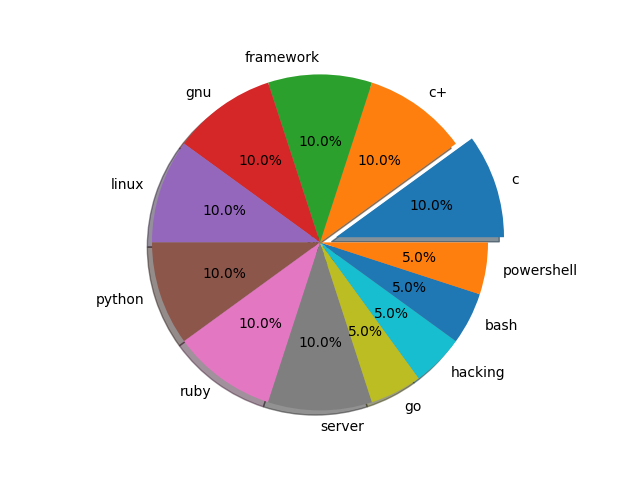
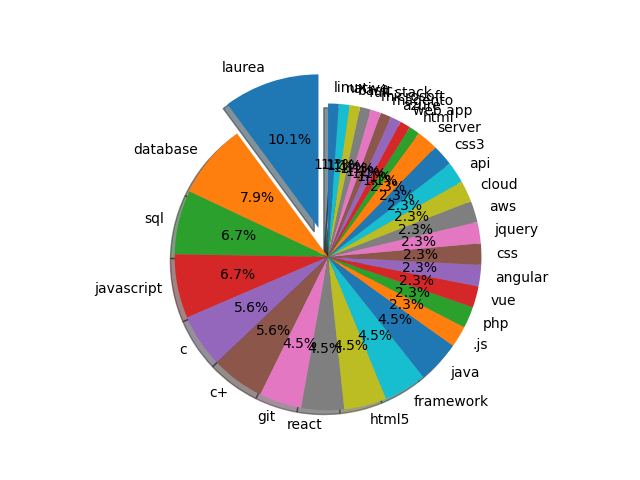
adding user keywords and formatting page

diff --git a/templates/index.html b/templates/index.html
@@ -26,7 +26,7 @@
             <!-- form di input con le due inpot box e pulsante -->
             <!-- <form action="/search" method="post">
                 # inputText di PLACE
-                <div class="row g-0 justify-content-center align-items-start">
+                <div class="row g-2 justify-content-center align-items-start">
                     <div class="col-4">
                         <input class="form-control rounded-0 rounded-start" type="text" placeholder="City" aria-label="place" name="place" required>
                     </div>
@@ -38,14 +38,14 @@
                 </div> -->
             <!-- temporary radius prechecked values -->
             <form action="/search" method="post">
-                <div class="row g-0 justify-content-center align-items-start">
+                <div class="row g-2 justify-content-center align-items-start">
                     <div class="col-4">
                         <input type="radio" name="place" value="milano" checked="checked"> <span
                             class="default-input">Milano</span>
                     </div>
                     <div class="col-4">
-                        <input type="radio" name="job_search" value="pentester" checked="checked"> <span
-                            class="default-input">pentester</span>
+                        <input type="radio" name="job_search" value="junior developer" checked="checked"> <span
+                            class="default-input">junior developer</span>
                     </div>
                     <div class="col-2 mx-1"><input class="btn btn-primary mb-3" type="submit" value="Submit"></div>
                 </div>
@@ -55,45 +55,45 @@
 
         </div>
 
-        <div class="container-sm my-1-px-2">
-            <div class="row g-0 justify-content-center">
-
-                <div class="col-4">
-                    <div class="search-result rounded-3">
-
-                            {% block result%}
-
-                            {%endblock%}
-
-                    </div>
-                </div>
-
-                <div class="col-8">
-                    <p style="color:greenyellow">graph</p>
-                    {%block image%}
-
-                    {%endblock%}
-                </div>
-            </div>
-        </div>
-
         <!-- sezione a scomparsa -->
         <div>
-            <a class="btn btn-primary" data-bs-toggle="collapse" href="#collapseSection" role="button"
+            <a class="btn btn-primary my-3" data-bs-toggle="collapse" href="#collapseSection" role="button"
                 aria-expanded="false" aria-controls="collapseExample">
                 Keywords in use
             </a>
         </div>
         <div class="collapse" id="collapseSection">
 
-            <div class="container-sm my-2-px-4">
+            <div class="container-sm my-3-px-2">
                 <div class="keywords-in-use rounded-3">
-                    <!-- list of keywords in use -->
-                    <ul>
-                        {% for k, v in dict.items()%}
-                        <li style="list-style: none ; display: inline;"><b>&emsp;{{k}} &emsp;| </b></li>
-                        {%endfor%}
-                    </ul>
+                    <!-- form per inserire proprio input -->
+                    <form action="/add_keywords" method="post">
+
+                        <div class="row g-2 justify-content-center align-items-start">
+                            <div class="col-8">
+                                <input class="form-control start" type="text"
+                                    placeholder="Insert,your,keywords,separated,by,commas" aria-label="custom_keys"
+                                    name="custom_keys" required>
+                            </div>
+                            <div class="col-2 mx-1"><input class="btn btn-primary mb-3" type="submit"
+                                    value="Add Keywords">
+                            </div>
+                        </div>
+
+                        <!-- list of keywords in use -->
+                        <ul>
+                            {%if user_dict|length > 0%}
+                                {% for w, n in user_dict.items()%}
+                                <li style="list-style: none ; color:blueviolet; display: inline;"><b>{{w}} , &emsp; </b></li>
+                                {%endfor%}
+                            {%endif%}
+                        </ul>
+                        <ul>
+                            {% for k, v in dict.items()%}
+
+                            <li style="list-style: none ; display: inline;"><b>{{k}} , &emsp; </b></li>
+                            {%endfor%}
+                        </ul>
                 </div>
             </div>
         </div>

diff --git a/templates/result.html b/templates/result.html
@@ -1,6 +1,6 @@
-{%extends "index.html"%}
+{%extends "layout.html"%}
 
-{%block result%}
+{%block body%}
 
 <button ><a href="/index">Go back</a></button>
 
@@ -10,7 +10,7 @@
 <hr>
 {% for k, v in result_dict.items()%}
 <ul>
-    <li style="list-style: none ;"><b>{{k}}:</b>&emsp; <em>{{v}} %</em></li>
+    <li style="list-style: none ;"><b>{{k}}:</b>&emsp; {{v[0]}} <em>({{v[1]}} %)</em></li>
 </ul>
 {%endfor%}
 {% endblock %}
@@ -18,9 +18,5 @@
 {%block image%}
 
 <img src="/static/graph.png" alt="graph">
-
-
-
-
 
 {%endblock%}

diff --git a/app.py b/app.py
@@ -1,14 +1,13 @@
-from crypt import methods
-from distutils.log import debug
-from glob import glob
-import time
-from flask import Flask, render_template, request, redirect, url_for, flash
-import look_module
-from analize_module import analisis, elaborate, percent_calc, sort_dictionary
-import sys
 import logging
+import time
+from flask import Flask, render_template, request, redirect, flash, url_for
+from look_module import format_entry, search
+from analize_module import elaborate
+
 
 app = Flask(__name__)
+app.secret_key = '01101100'
+
 logging.basicConfig(level=logging.DEBUG)
 
 default_dict = {}
@@ -19,15 +18,39 @@ user_dict = {}
 
 
 @app.route("/")
+@app.route("/add_keywords", methods=["POST"])
 @app.route("/index")
 def index():
+
     global default_dict
     global user_dict
 
-    default_dict = build_dict()
+    if request.method == "GET":
+        default_dict = build_dict()
+    elif request.method == "POST":
 
 
-    return render_template("index.html", dict=default_dict)
+        # new_keyword = request.get["keyword"]  ???
+        # what user adds
+        new_keywords = ["AAAAAA", "BBBBB", "c"]
+        if len(new_keywords) != 0:
+            for key in new_keywords:
+                if key not in default_dict:
+                    user_dict[key] = 0
+
+            flash("Your keywords were added!")
+            # return index()
+            # return redirect(url_for("/"))
+            # oppure
+            return redirect("/index")
+        else:
+            flash("No additions.")
+            return redirect("/index")
+
+
+
+
+    return render_template("index.html", dict=default_dict, user_dict=user_dict)
 
 # =============================================================
 def build_dict():
@@ -64,11 +87,11 @@ def start_search():
         # add_keywords()
 
         # get values from request form
-        place = request.form['place']
-        job = request.form['job_search']
+        place = format_entry(request.form['place'])
+        job = format_entry(request.form['job_search'])
 
         ordered_result = {}
-        ordered_result = look_module.search(place=place, job_search=job, default_dict=default_dict)
+        ordered_result = search(place=place, job_search=job, default_dict=default_dict)
         # chiama funzione e ritorna lista (page e logica è definito dentro la funzione )
         # jobList = extract_from_page(place = place, job_search = job)
 
@@ -92,29 +115,29 @@ def error(error):
 
 
 
-@app.route("/add_keywords", methods=["POST"])
-def add_keywords():
-    global user_dict
-    if request.method == "POST":
-        global default_dict
+# @app.route("/add_keywords", methods=["POST"])
+# def add_keywords():
+#     global user_dict
+#     if request.method == "POST":
+#         global default_dict
 
-        # new_keyword = request.get["keyword"]  ???
-        # what user adds
-        new_keywords = ["AAAAAA", "BBBBB", "c"]
+#         # new_keyword = request.get["keyword"]  ???
+#         # what user adds
+#         new_keywords = ["AAAAAA", "BBBBB", "c"]
 
-        for key in new_keywords:
-            if key not in default_dict:
-                default_dict[key] = 0
+#         for key in new_keywords:
+#             if key not in default_dict:
+#                 default_dict[key] = 0
 
-        flash("Your keywords were added!")
-        # return index()
-        # return redirect(url_for("/"))
-        # oppure
-        return redirect("/")
-    else:
-        return user_dict
+#         flash("Your keywords were added!")
+#         # return index()
+#         # return redirect(url_for("/"))
+#         # oppure
+#         return redirect(url_for('index'), method="POST")
+#     else:
+#         return user_dict
 
-# =============================================================
+# # =============================================================
 
 if __name__ == "__main__":
     app.run(host="127.0.0.1", port=8080, debug=True)

diff --git a/analize_module.py b/analize_module.py
@@ -42,11 +42,11 @@ def elaborate():
     global result_dict
     global counter
 
-    elaborated = percent_calc(sort_dictionary(result_dict))
+    elaborated = add_percent(sort_dictionary(result_dict))
 
     finish_time = time.time()
 
-    pie_chart(elaborated)
+    pie_chart(result_dict)
 
     return elaborated, finish_time, counter
 
@@ -54,6 +54,17 @@ def elaborate():
 # ===========================================================
 
     # from int values intrasforms to percent float w/ 2 decimal place
+def add_percent(dictionary):
+    total = sum(dictionary.values())
+    for k, v in dictionary.items():
+        # updates dict with same Key but a Value x 100 divided by total of sum of dict values
+        # dictionary.setdefault(k, []).append(float("{:.2f}".format(v *100 / total )))
+        dictionary.update({k : [v, float("{:.2f}".format(v *100 / total ))]})
+        # only add percent sign to the file writing so it is still a computable number for later use
+    return dictionary
+# # ===========================================================
+
+#     # from int values intrasforms to percent float w/ 2 decimal place
 def percent_calc(dictionary):
     total = sum(dictionary.values())
     for k, v in dictionary.items():
@@ -82,13 +93,14 @@ def sort_dictionary(unsorted_dict):
 
 def pie_chart(dictionary):
 
+    result = percent_calc(sort_dictionary(dictionary))
     # Pie chart, where the slices will be ordered and plotted counter-clockwise:
-    labels = list(dictionary.keys())
-    sizes = list(dictionary.values())
+    labels = list(result.keys())
+    sizes = list(result.values())
 
     # starting list for exploded view
     # should contain a value for each value to plot, else ValueError
-    explode = [0.1]
+    explode = [0.2]
     # dinamically append other values to match the len of values to display
     for _ in range(1, len(sizes)):
         explode.append(0)
@@ -97,7 +109,7 @@ def pie_chart(dictionary):
     fig1, ax1 = plt.subplots()
 
     ax1.pie(sizes, explode=explode, labels=labels, autopct='%1.1f%%',
-            shadow=True, startangle=0)
+            shadow=True, startangle=90)
     ax1.axis('equal')  # Equal aspect ratio ensures that pie is drawn as a circle.
 
     plt.savefig('./static/graph.png')

diff --git a/look_module.py b/look_module.py
@@ -46,7 +46,7 @@ def format_entry(entry):
     # strip trailing whitespaces
     formatted = re.sub(r"\s+", '+', entry.strip())
 
-    return formatted
+    return formatted.lower()
 
 # ===========================================================
 
